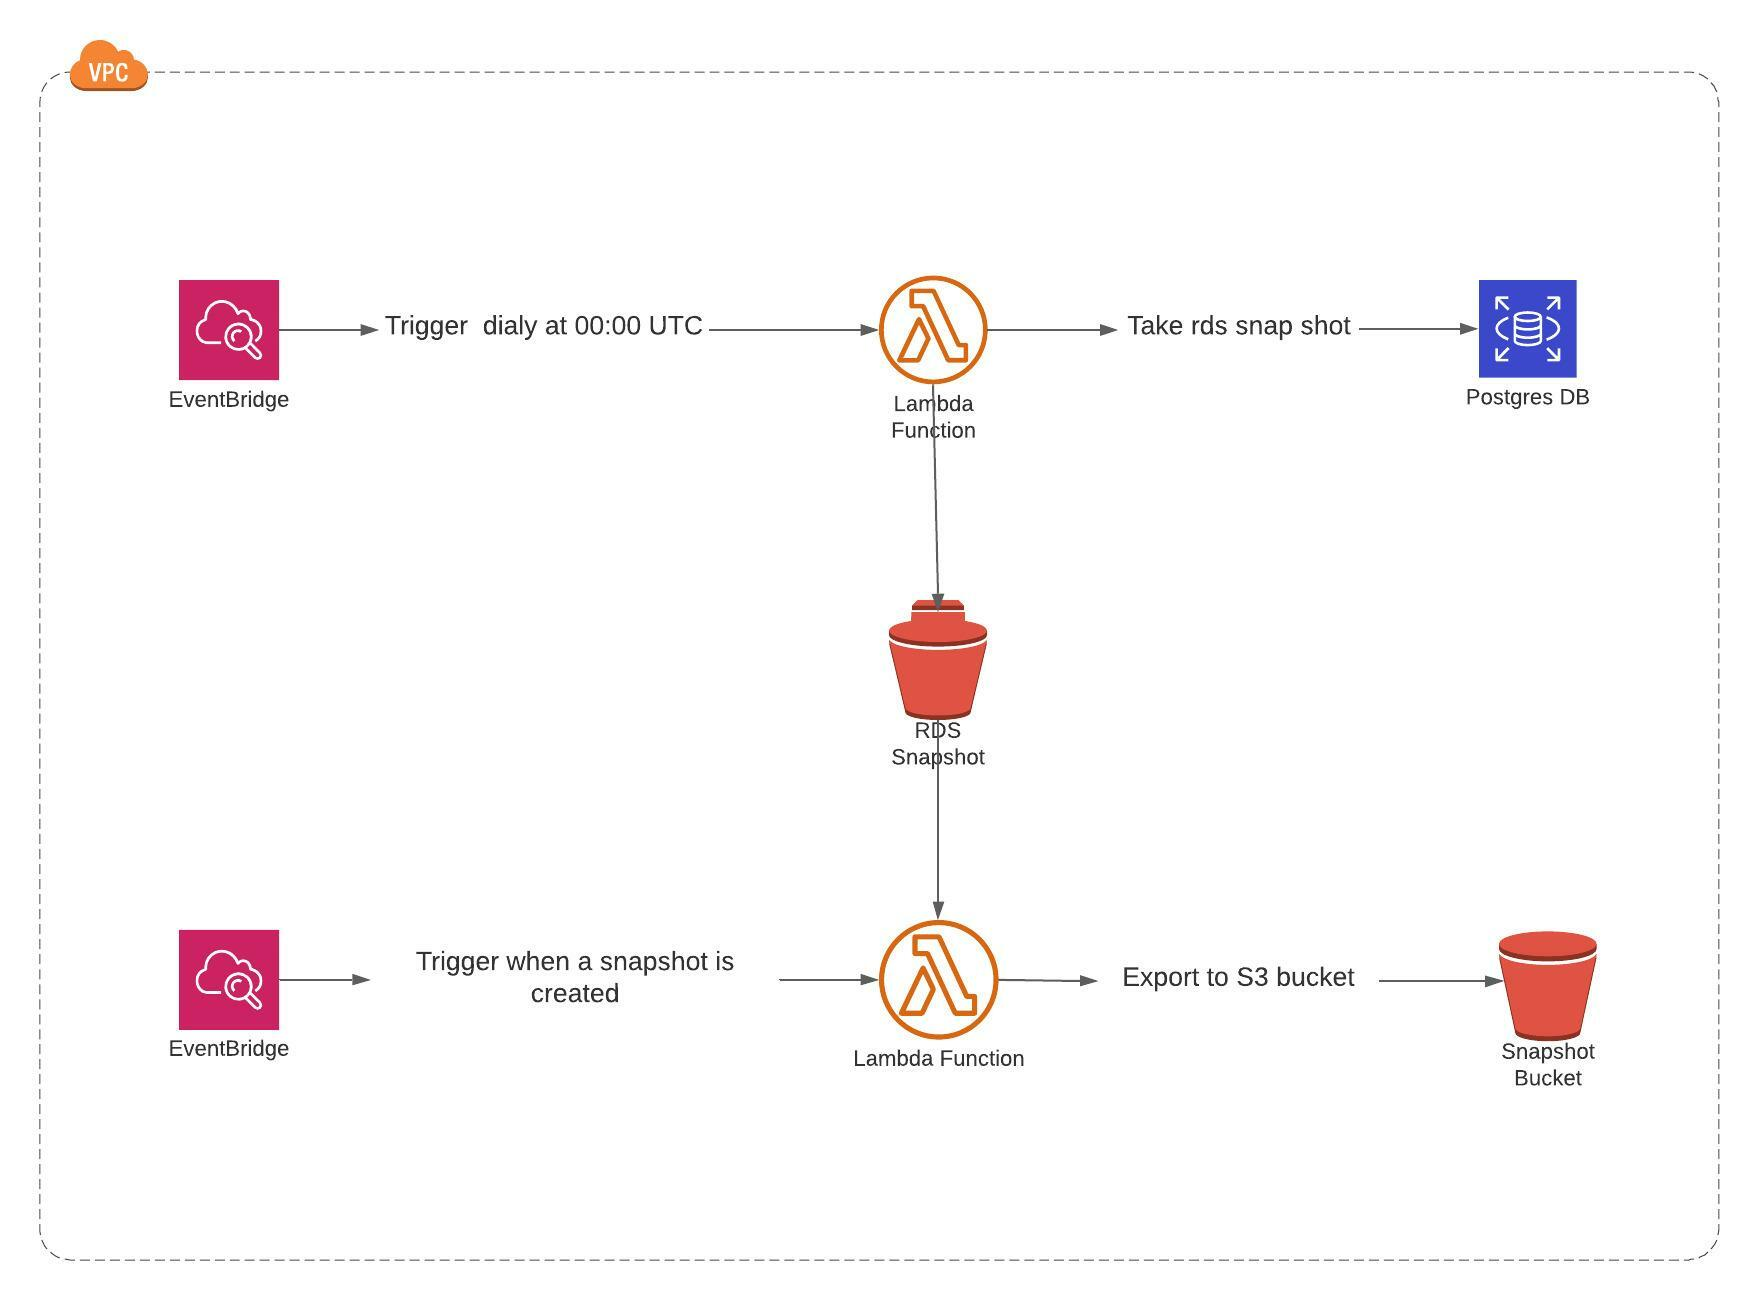
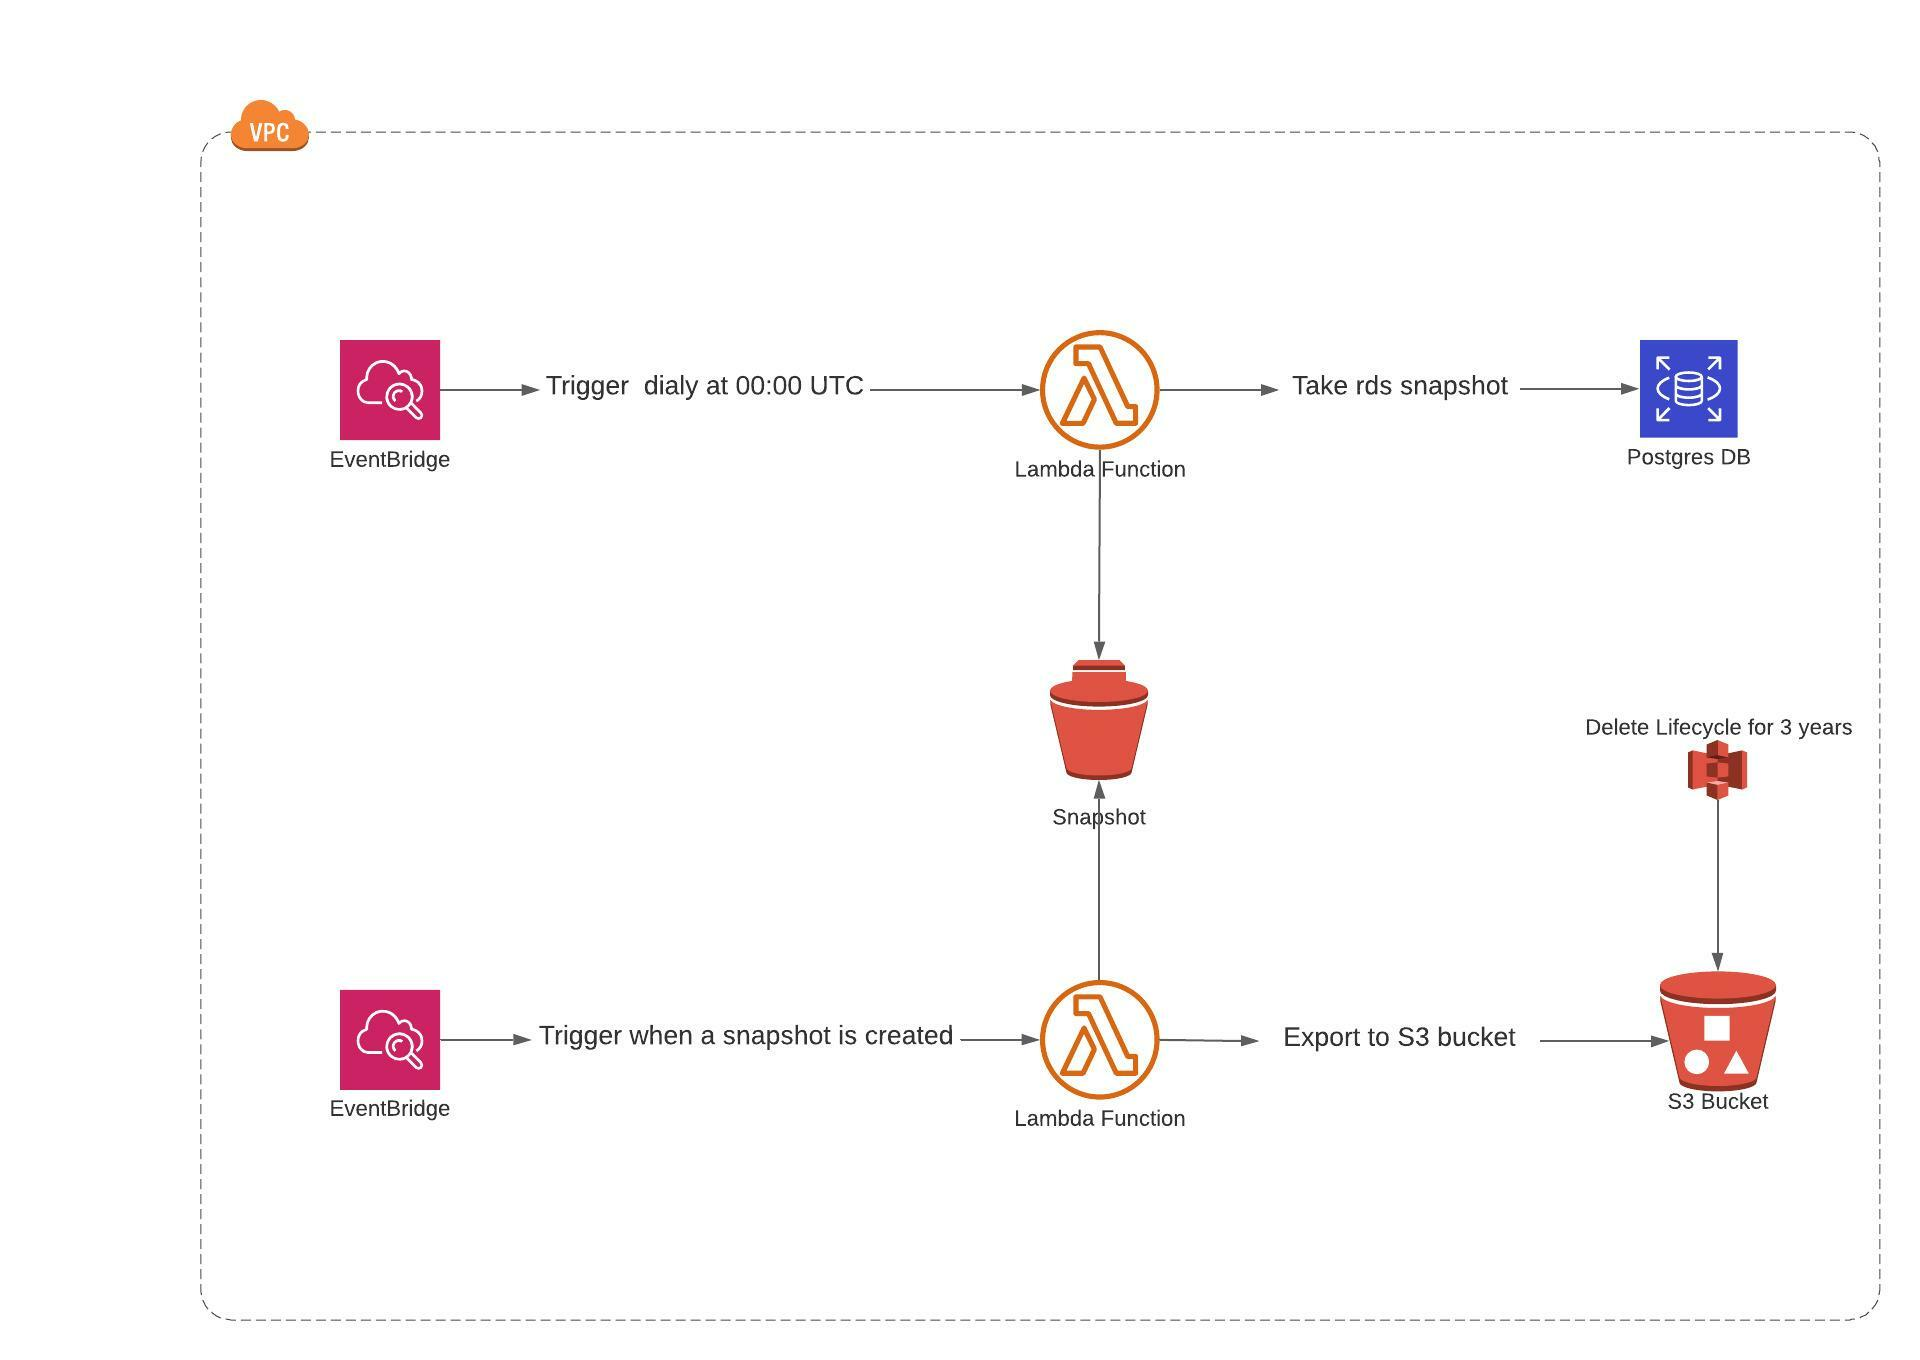
update README

diff --git a/README.md b/README.md
@@ -1,10 +1,12 @@
 # Introduction #
 Notejam applicaiton was first created as monolith and this project goal is to re-design it as microservice running on cloud. It would be more scalable, high available and automatically scale up/down with out-of-the-box networking and security integrations.
 ### Technology Stack ###
-We choose to run the applicaiton on AWS cloud providers for many factors. In my opinion, scalabiltiy and flexibility are the most important factors. In the below a list of AWS services stack:
+We choose to run the applicaiton on AWS cloud providers for many factors. In my opinion, scalabiltiy and flexibility are the most important factors. In the below a list of AWS services and DevOps tools used in the project:
 * [Docker](https://www.docker.com/): We cannot think of microservice without mentioning docker. The whole concept of construct any microservice application is building it as contianers and the poineer technology to achiver this goal is Docker.
 * [EKS](https://aws.amazon.com/eks/): It is the most trusted way to start, run and scal Kubernetes. At the end we are going to create an application that automatically scale up/down and run in a high availability configuraiotn.
 * [RDS](https://aws.amazon.com/rds/?p=pm&c=db&z=3): Amazon Relational Database Service makes it easy to set up, operate, and scale a relational database in the cloud. It provides cost-efficient and resizable capacity while automating time-consuming administration tasks such as hardware provisioning, database setup, patching and backups.
+* [Lambda](https://aws.amazon.com/lambda): Two Amazon Lambda functions are used to execute servlesss jobs. First one to take a manual snap shot of the database and the second one to export the snapt shot into S3bucket.
+* [S3 Bucket](https://aws.amazon.com/s3): Storing the db snapeshot for three years and set an autoamtic cleanup policy to delete overdue objects. 
 * [Terraform](https://www.terraform.io/): Instead of provisioning the infrastrucre manually, I used terraform . Defining infrastrcue as code to create resources, manage existing ones, and destroy those no longer needed.
 * [CircleCI](https://circleci.com): Continous Integration / Continous Development (CI/CD) is the most important tool to achive DevOps culture in developement any software. The hot label which could brief the benefit of CI/CD tool is *fail fast and repair fast*. One of the poineer tool is circleci to build a faster deployement jobs on robut cloud servers. Finally, have more than 100 developers to work in this project and who want to roll out multiple deployments a day without interruption / downtime would be impossible without using the CI/CD piplines.
 
@@ -26,7 +28,7 @@ The new application would be containerized to run on AWS and use its kubernetes 
     - Development
     - Staging
     - Production
-* Each cluster is connected to a load balancer **AWS ELB** which in turns direct the connection to the app endpoints
+* Each cluster is connected to a load balancer **AWS ELB** which in turns direct the connection to the app endpoints.
 * Autoscalling is configured to a production clustser that is supposedly configured to read the metric data of connection from prometheis and set the thredshold based on the noraml connection data time.
 * A **lambda function** is triggered by a **EventBridge** on a specific time (Daily at 12 AM UTC) to create a snapshot of the database.
 * Once the sanpshort is created, another lambda function is triggerd as well by EventBridge and export it to a **S3 bucket** called `notejamsnapshot`.
@@ -43,12 +45,13 @@ $ terraform plan -var-file variables.tfvars
 $ terraform apply -auto-approve -var-file variables.tfvars
 ```
 The above commands build the whole infrastructure which is needed to have the applicaiton up and running. The resources are:
-* VPC - virtual private cloud on aws for network backbone
-* RDS - postgres database
-* S3 Bucket - to store the db backup files for 3 years 
-* EKS Clusters - three k8s clusters: developments - staging - produciton
+* VPC - virtual private cloud on aws for network backbone.
+* RDS - postgres database.
+* S3 Bucket - store the db backup files for 3 years.
+* Lambda Functions - take database snapshots and export it to s3 bucket.
+* EKS Clusters - three k8s clusters: developments - staging - produciton.
 # Creating #
-In this step we are going to dockerize the application to be run on k8s cluster:
+This building step would be part of a **Continuous Integation** pipeline that we are going to build the application to run on k8s cluster. In other words, build the appilcation as a contianer and push it to a registery:
 * The file `Dockerfile` is created to contains all the commands to be executed to build the container.
 * Database URL is configured in as environement varaiable as `ENV {DB_URI}` which created in build step.
 * We can test the container applicaiton by update the `ENV` and the runn the command
@@ -60,7 +63,7 @@ $ docker build -t notejam .
 $ docker run -it  --network host -p 5000 -e DB_URI=$DB_URI notejam
 ```
 * One we successfully build the docker image we need to push into any contianer registery, ex [docker hub](https://hub.docker.com), it will be used to build the deployment in the next step. 
-* Once we have our application up & running this building step would be part of a **Continuous Integation** pipeline
+* There is a possibility to use any other regstier other than dockerhub. ex: [ECS](https://aws.amazon.com/ecr/).
 ```
 $ export password="dockerhub_password" && user="dockerhub_username" && name="dockerhub_name"
 $ echo "$password" | docker login -u "user" --password-stdin
